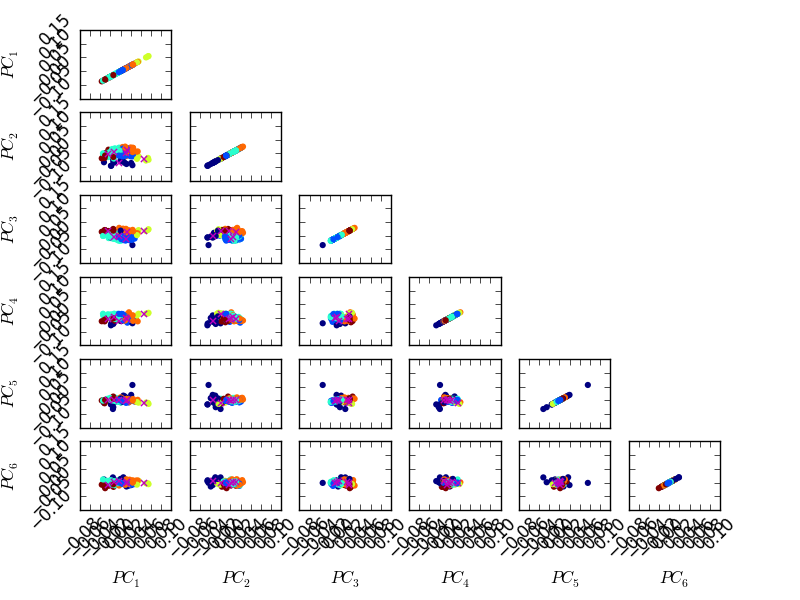
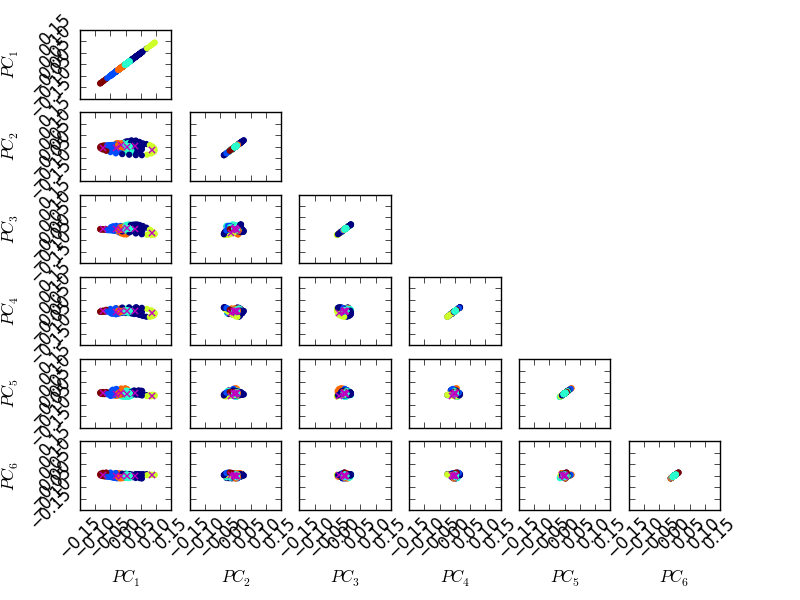
fixed final bugs for pipeline

diff --git a/pipeline/CODE/Main.py b/pipeline/CODE/Main.py
@@ -1,6 +1,8 @@
 from __future__ import print_function
 from config import *
 from management.update_dict import update_dict
+import numpy as np
+import os
 print('Main')
 
 #############################
@@ -12,8 +14,11 @@ update_dict(dict_red,'RED_')
 from management.name_files import red_data_name,clust_name
 RED_DATA_NAME=red_data_name(REDUCTION_METHOD,dict_red)
 
+
 exec('from reduction.'+REDUCTION_METHOD+' import reduction')
-def reduc(): np.savetxt(RED_DATA_NAME,reduction(np.loadtxt(ORG_DATA).T,dict_red))
+def reduc():
+	os.system('mkdir -p red_data')
+	np.savetxt(RED_DATA_NAME,reduction(np.loadtxt(ORG_DATA).T,dict_red))
 
 #############################
 #### CLUSTERING PART	 ####
@@ -21,14 +26,16 @@ def reduc(): np.savetxt(RED_DATA_NAME,reduction(np.loadtxt(ORG_DATA).T,dict_red)
 exec('from management.params_clust import '+CLUSTERING_METHOD+'_dict as dict_clust')
 update_dict(dict_clust,'CL_')
 
+print(dict_clust)
 exec('from clustering.'+CLUSTERING_METHOD+' import clustering')
 def cl_func(data): return clustering(data,dict_clust)
 
-try:
-	CLUSTERING_DATA
-except NameError: CL_DATA=np.loadtxt(RED_DATA_NAME)
-else		: CL_DATA=np.loadtxt(CLUSTERING_DATA)
 
 CLUSTERING_OUT_NAME=clust_name(CLUSTERING_METHOD,dict_clust)
 from clustering.plot import plot_clustering
-def plot():	plot_clustering(cl_func,CL_DATA,CLUSTERING_OUT_NAME)
+def plot():
+	try:
+		CLUSTERING_DATA
+	except NameError: CL_DATA=np.loadtxt(RED_DATA_NAME).T
+	else		: CL_DATA=np.loadtxt(CLUSTERING_DATA).T
+	plot_clustering(cl_func,CL_DATA,CLUSTERING_OUT_NAME)

diff --git a/pipeline/config_clustering.py b/pipeline/config_clustering.py
@@ -14,8 +14,8 @@ possibilities:
 CLUSTERING_METHOD	= 'MeanShift'
 
 CLUSTERING_METHOD	= 'KMeans'
-CL_n_clusters=10
+#CL_n_clusters=3
 
-#CLUSTERING_METHOD	= 'AgglomerativeClustering'
+CLUSTERING_METHOD	= 'AgglomerativeClustering'
 
-#CLUSTERING_DATA	= '???'
+#CLUSTERING_DATA		= '../empca_trained_coeff/coefficients.dat'

diff --git a/pipeline/CODE/management/name_files.py b/pipeline/CODE/management/name_files.py
@@ -1,6 +1,6 @@
 def red_data_name(Method,params):
-    fname = 'reduced_data_' +Method+ '.dat'
+    fname = 'red_data/reduced_data_' +Method+ '.dat'
     return fname
 def clust_name(Method,params):
-    fname = 'clustering' + Method +'.png'
+    fname = 'clustering_' + Method +'.png'
     return fname

diff --git a/pipeline/CODE/reduction/pca.py b/pipeline/CODE/reduction/pca.py
@@ -14,4 +14,4 @@ def reduction(data, params):
     pca.fit(data)
     X = pca.transform(data)
 
-    return X.T
+    return X
